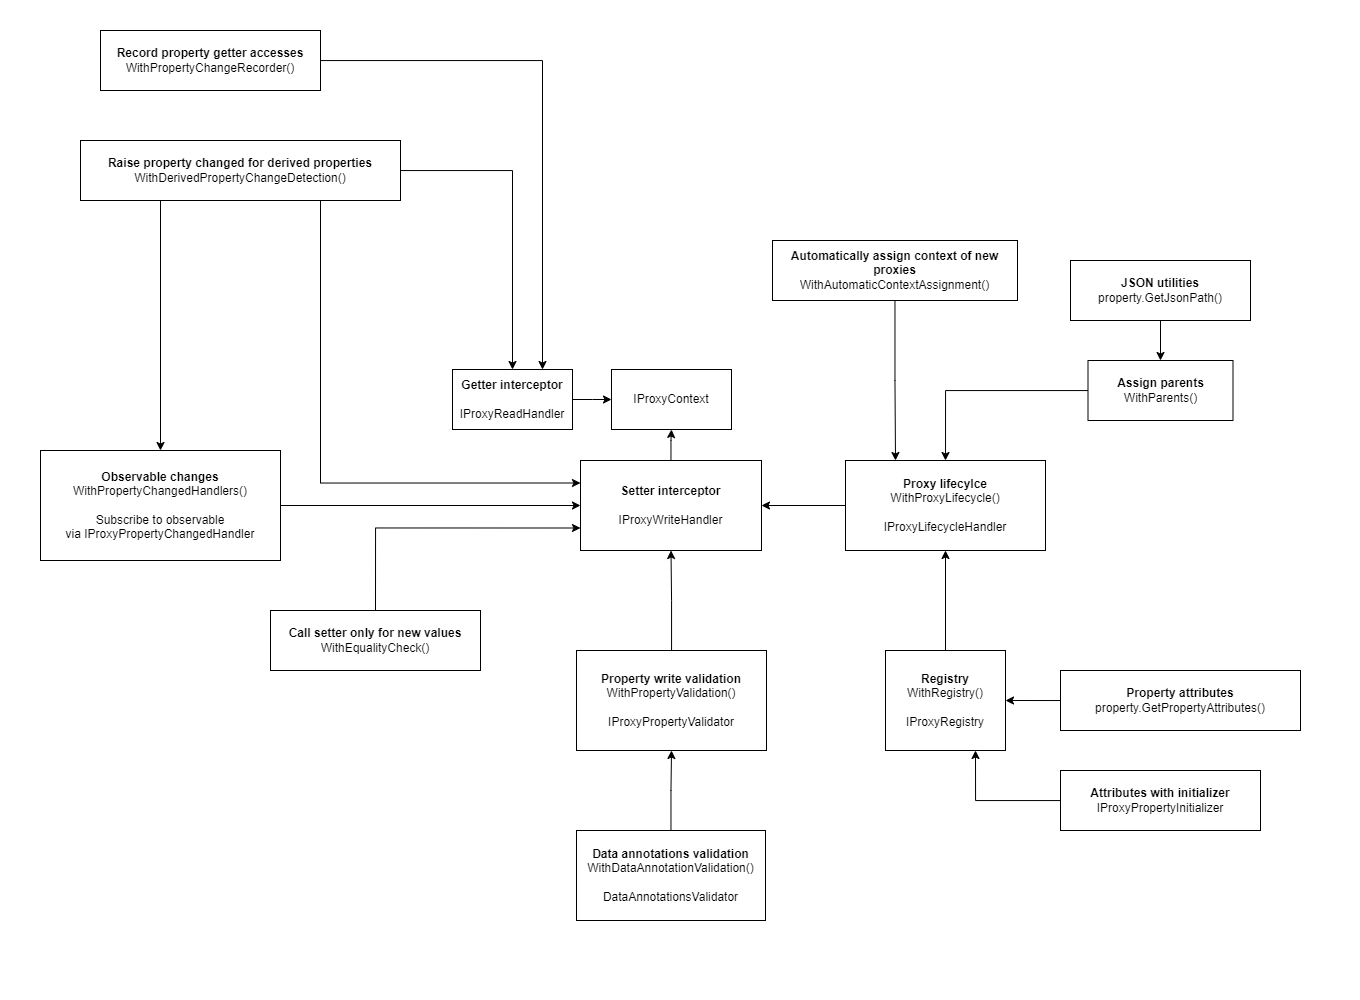
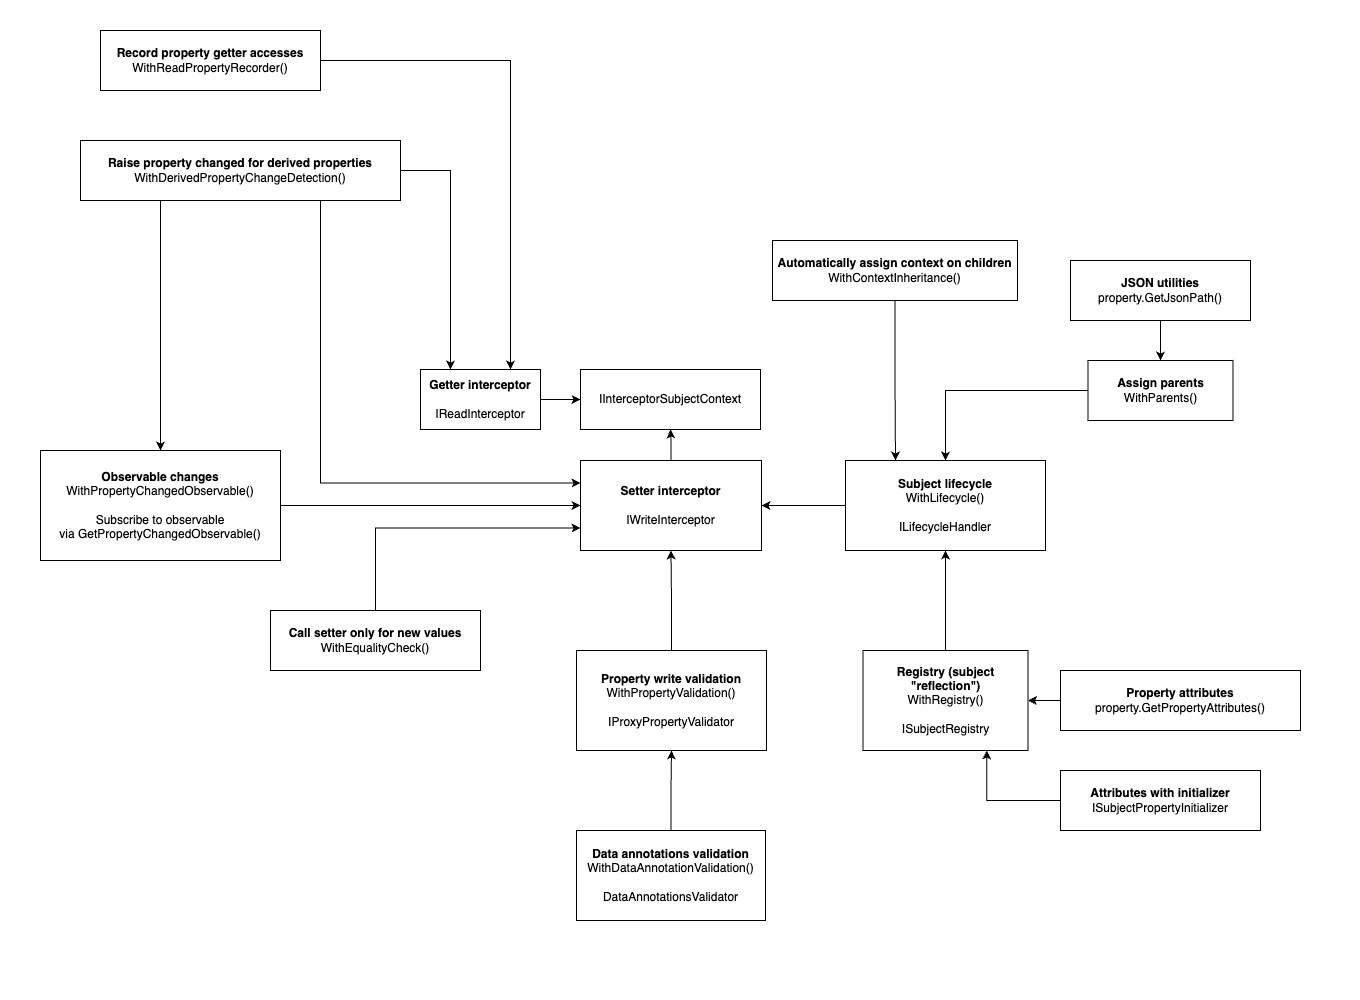
Update docs

diff --git a/src/Namotion.Interceptor.Tracking.Tests/ContextInheritanceHandlerTests.cs b/src/Namotion.Interceptor.Tracking.Tests/ContextInheritanceHandlerTests.cs
@@ -4,7 +4,7 @@ using Namotion.Interceptor.Tracking.Tests.Models;
 
 namespace Namotion.Interceptor.Tracking.Tests;
 
-public class InterceptorInheritanceHandlerTests
+public class ContextInheritanceHandlerTests
 {
     [Fact]
     public void WhenPropertyIsAssigned_ThenContextIsSet()
@@ -12,7 +12,7 @@ public class InterceptorInheritanceHandlerTests
         // Arrange
         var collection = InterceptorSubjectContext
             .Create()
-            .WithInterceptorInheritance();
+            .WithContextInheritance();
 
         // Act
         var person = new Person(collection);
@@ -28,7 +28,7 @@ public class InterceptorInheritanceHandlerTests
         // Arrange
         var collection = InterceptorSubjectContext
             .Create()
-            .WithInterceptorInheritance();
+            .WithContextInheritance();
 
         // Act
         var grandmother = new Person
@@ -60,7 +60,7 @@ public class InterceptorInheritanceHandlerTests
         // Arrange
         var context = InterceptorSubjectContext
             .Create()
-            .WithInterceptorInheritance();
+            .WithContextInheritance();
 
         // Act
         var grandmother = new Person
@@ -94,7 +94,7 @@ public class InterceptorInheritanceHandlerTests
         // Arrange
         var collection = InterceptorSubjectContext
             .Create()
-            .WithInterceptorInheritance();
+            .WithContextInheritance();
 
         // Act
         var child1 = new Person { FirstName = "Child1" };
@@ -121,7 +121,7 @@ public class InterceptorInheritanceHandlerTests
         // Arrange
         var collection = InterceptorSubjectContext
             .Create()
-            .WithInterceptorInheritance();
+            .WithContextInheritance();
 
         // Act
         var child1 = new Person(collection) { FirstName = "Child1" };
@@ -148,7 +148,7 @@ public class InterceptorInheritanceHandlerTests
         var collection = InterceptorSubjectContext
             .Create()
             .WithService(() => service1, x => x == 1)
-            .WithInterceptorInheritance();
+            .WithContextInheritance();
 
         // Act
         var person = new Person(collection)
@@ -165,18 +165,18 @@ public class InterceptorInheritanceHandlerTests
 
         ((IInterceptorSubject)person.Mother).Context
             .WithService(() => service2, x => x == 2)
-            .WithInterceptorInheritance();
+            .WithContextInheritance();
 
         // Assert
         Assert.Contains(1, person.GetServices<int>());
         Assert.DoesNotContain(2, person.GetServices<int>());
-        Assert.Single(person.GetServices<InterceptorInheritanceHandler>());
+        Assert.Single(person.GetServices<ContextInheritanceHandler>());
 
         Assert.Contains(1, person.Mother.GetServices<int>());
         Assert.Contains(2, person.Mother.GetServices<int>());
 
         Assert.Contains(1, person.Mother.Mother.GetServices<int>());
         Assert.Contains(2, person.Mother.Mother.GetServices<int>());
-        Assert.Single(person.Mother.Mother.GetServices<InterceptorInheritanceHandler>());
+        Assert.Single(person.Mother.Mother.GetServices<ContextInheritanceHandler>());
     }
 }

diff --git a/src/Namotion.Interceptor.Tracking/InterceptorCollectionExtensions.cs b/src/Namotion.Interceptor.Tracking/InterceptorCollectionExtensions.cs
@@ -16,7 +16,7 @@ public static class InterceptorCollectionExtensions
     {
         return context
             .WithEqualityCheck()
-            .WithInterceptorInheritance()
+            .WithContextInheritance()
             .WithDerivedPropertyChangeDetection();
     }
 
@@ -33,7 +33,7 @@ public static class InterceptorCollectionExtensions
             .TryAddService(context.GetService<DerivedPropertyChangeHandler>, _ => true);
 
         return context
-            .WithProxyLifecycle()
+            .WithLifecycle()
             .WithPropertyChangedObservable();
     }
 
@@ -44,7 +44,7 @@ public static class InterceptorCollectionExtensions
     }
 
     /// <summary>
-    /// Registers the property changed observable which can be retrieved using interceptable.GetPropertyChangedObservable().
+    /// Registers the property changed observable which can be retrieved using subject.GetPropertyChangedObservable().
     /// </summary>
     /// <param name="context">The collection.</param>
     /// <returns>The collection.</returns>
@@ -55,17 +55,17 @@ public static class InterceptorCollectionExtensions
     }
 
     /// <summary>
-    /// Adds automatic context assignment and <see cref="WithProxyLifecycle"/>.
+    /// Adds automatic context assignment and <see cref="WithLifecycle"/>.
     /// </summary>
     /// <param name="context">The collection.</param>
     /// <returns>The collection.</returns>
-    public static IInterceptorSubjectContext WithInterceptorInheritance(this IInterceptorSubjectContext context)
+    public static IInterceptorSubjectContext WithContextInheritance(this IInterceptorSubjectContext context)
     {
         context
-            .TryAddService(() => new InterceptorInheritanceHandler(), _ => true);
+            .TryAddService(() => new ContextInheritanceHandler(), _ => true);
 
         return context
-            .WithProxyLifecycle();
+            .WithLifecycle();
     }
 
     /// <summary>
@@ -73,7 +73,7 @@ public static class InterceptorCollectionExtensions
     /// </summary>
     /// <param name="context">The collection.</param>
     /// <returns>The collection.</returns>
-    public static IInterceptorSubjectContext WithProxyLifecycle(this IInterceptorSubjectContext context)
+    public static IInterceptorSubjectContext WithLifecycle(this IInterceptorSubjectContext context)
     {
         return context
             .WithInterceptor(() => new LifecycleInterceptor(context));
@@ -88,6 +88,6 @@ public static class InterceptorCollectionExtensions
     {
         return context
             .WithInterceptor(() => new ParentTrackingHandler())
-            .WithProxyLifecycle();
+            .WithLifecycle();
     }
 }

diff --git a/src/Namotion.Interceptor.Tracking.Tests/LifecycleInterceptorTests.cs b/src/Namotion.Interceptor.Tracking.Tests/LifecycleInterceptorTests.cs
@@ -16,7 +16,7 @@ public class LifecycleInterceptorTests
         var handler = new TestLifecyleHandler(attaches, detaches);
         var collection = InterceptorSubjectContext
             .Create()
-            .WithProxyLifecycle()
+            .WithLifecycle()
             .WithService(() => handler);
 
         // Act
@@ -42,7 +42,7 @@ public class LifecycleInterceptorTests
         var handler = new TestLifecyleHandler(attaches, detaches);
         var collection = InterceptorSubjectContext
             .Create()
-            .WithProxyLifecycle()
+            .WithLifecycle()
             .WithService(() => handler);
 
         // Act
@@ -68,8 +68,8 @@ public class LifecycleInterceptorTests
         var handler = new TestLifecyleHandler(attaches, detaches);
         var collection = InterceptorSubjectContext
             .Create()
-            .WithInterceptorInheritance()
-            .WithProxyLifecycle()
+            .WithContextInheritance()
+            .WithLifecycle()
             .WithService(() => handler);
 
         // Act
@@ -98,8 +98,8 @@ public class LifecycleInterceptorTests
         var handler = new TestLifecyleHandler(attaches, detaches);
         var collection = InterceptorSubjectContext
             .Create()
-            .WithInterceptorInheritance()
-            .WithProxyLifecycle()
+            .WithContextInheritance()
+            .WithLifecycle()
             .WithService(() => handler);
 
         // Act
@@ -126,7 +126,7 @@ public class LifecycleInterceptorTests
         var handler = new TestLifecyleHandler(attaches, detaches);
         var collection = InterceptorSubjectContext
             .Create()
-            .WithProxyLifecycle()
+            .WithLifecycle()
             .WithService(() => handler);
 
         // Act
@@ -151,8 +151,8 @@ public class LifecycleInterceptorTests
         var handler = new TestLifecyleHandler(attaches, detaches);
         var collection = InterceptorSubjectContext
             .Create()
-            .WithInterceptorInheritance()
-            .WithProxyLifecycle()
+            .WithContextInheritance()
+            .WithLifecycle()
             .WithService(() => handler);
 
         // Act

diff --git a/src/Namotion.Interceptor.Tracking/Lifecycle/ContextInheritanceHandler.cs b/src/Namotion.Interceptor.Tracking/Lifecycle/ContextInheritanceHandler.cs
@@ -1,6 +1,6 @@
 namespace Namotion.Interceptor.Tracking.Lifecycle;
 
-public class InterceptorInheritanceHandler : ILifecycleHandler
+public class ContextInheritanceHandler : ILifecycleHandler
 {
     public void Attach(LifecycleContext context)
     {
@@ -22,6 +22,6 @@ public class InterceptorInheritanceHandler : ILifecycleHandler
 
     public override bool Equals(object? obj)
     {
-        return obj is InterceptorInheritanceHandler;
+        return obj is ContextInheritanceHandler;
     }
 }

diff --git a/src/Namotion.Interceptor.Tracking.Tests/Change/DerivedPropertyChangeHandlerTests.cs b/src/Namotion.Interceptor.Tracking.Tests/Change/DerivedPropertyChangeHandlerTests.cs
@@ -48,7 +48,7 @@ public class DerivedPropertyChangeHandlerTests
         var changes = new List<PropertyChangedContext>();
         var context = InterceptorSubjectContext
             .Create()
-            .WithInterceptorInheritance()
+            .WithContextInheritance()
             .WithDerivedPropertyChangeDetection();
         
         // Act

diff --git a/src/Namotion.Interceptor.SampleMachine/Program.cs b/src/Namotion.Interceptor.SampleMachine/Program.cs
@@ -126,7 +126,7 @@ namespace Namotion.Interceptor.SampleMachine
                 .Create()
                 .WithRegistry()
                 .WithFullPropertyTracking()
-                .WithProxyLifecycle()
+                .WithLifecycle()
                 .WithDataAnnotationValidation();
 
             var root = new Root(context)

diff --git a/src/Namotion.Interceptor.SampleWeb/Program.cs b/src/Namotion.Interceptor.SampleWeb/Program.cs
@@ -86,7 +86,7 @@ namespace Namotion.Interceptor.SampleWeb
                 .Create()
                 .WithRegistry()
                 .WithFullPropertyTracking()
-                .WithProxyLifecycle()
+                .WithLifecycle()
                 .WithDataAnnotationValidation();
 
             var car = new Car(context);

diff --git a/src/Namotion.Interceptor.Registry/InterceptorCollectionExtensions.cs b/src/Namotion.Interceptor.Registry/InterceptorCollectionExtensions.cs
@@ -16,6 +16,6 @@ public static class InterceptorCollectionExtensions
             .TryAddService(() => new SubjectRegistry(), _ => true);
 
         return context
-            .WithInterceptorInheritance();
+            .WithContextInheritance();
     }
 }
